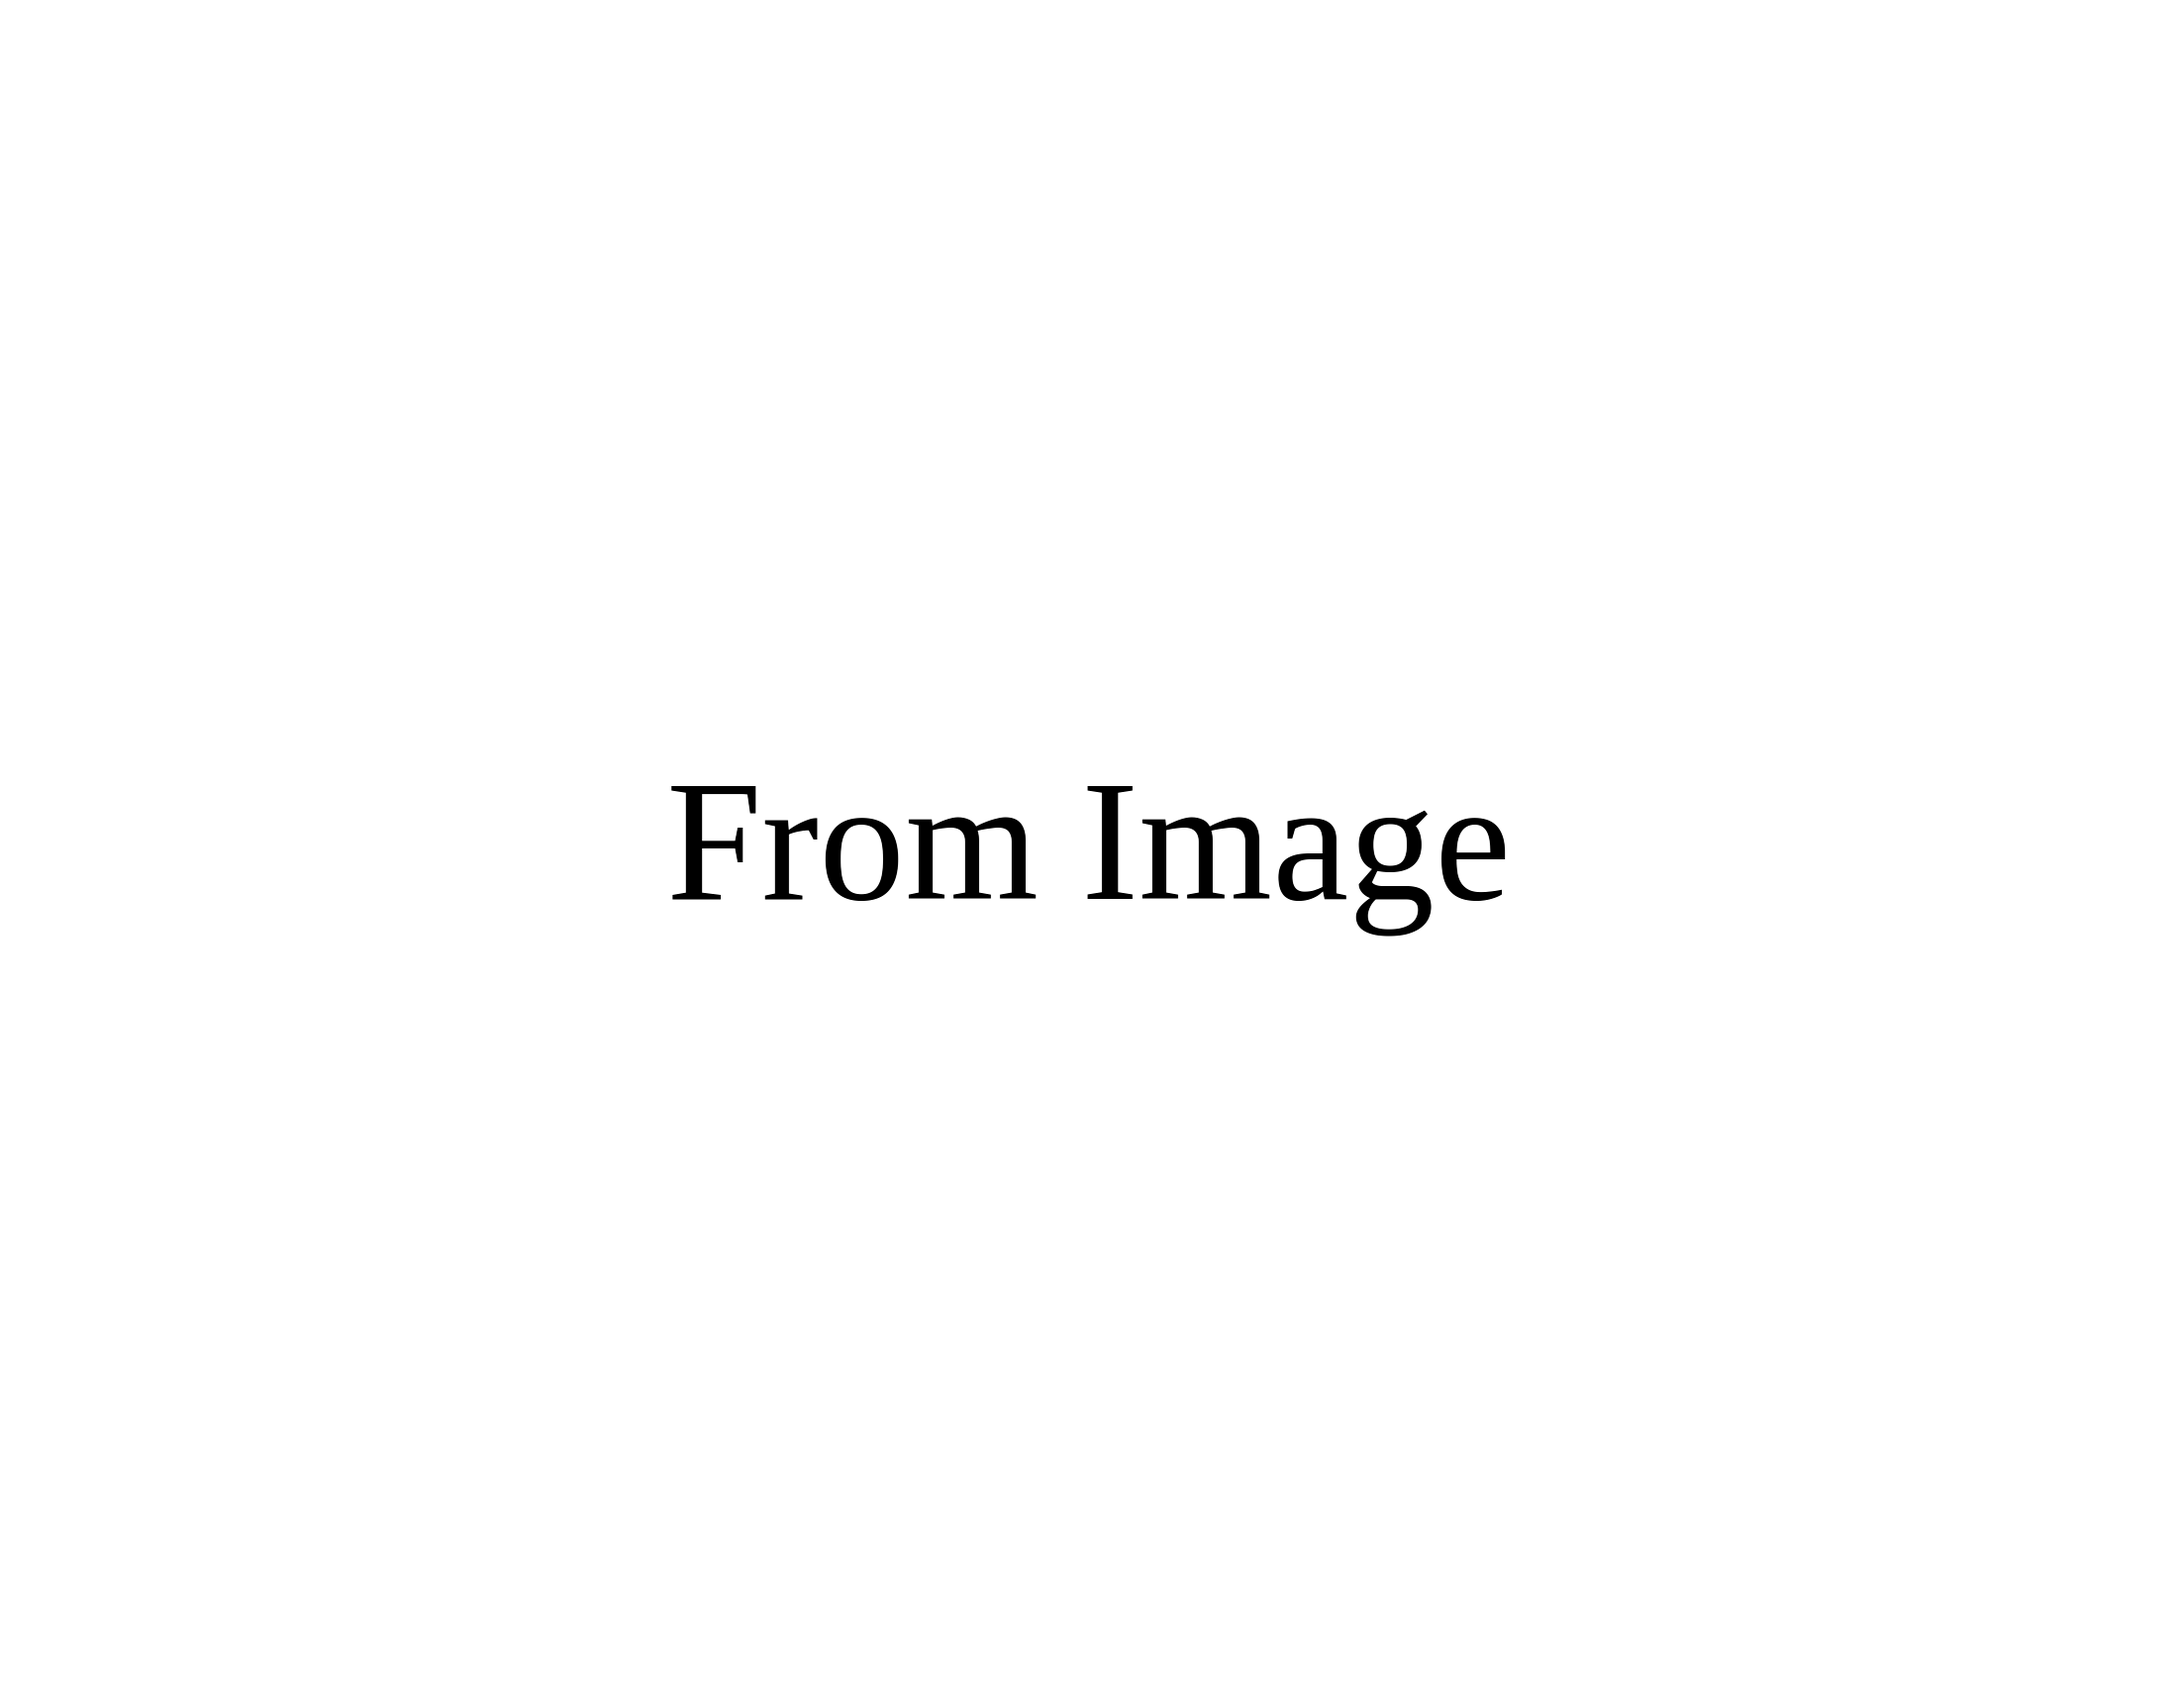
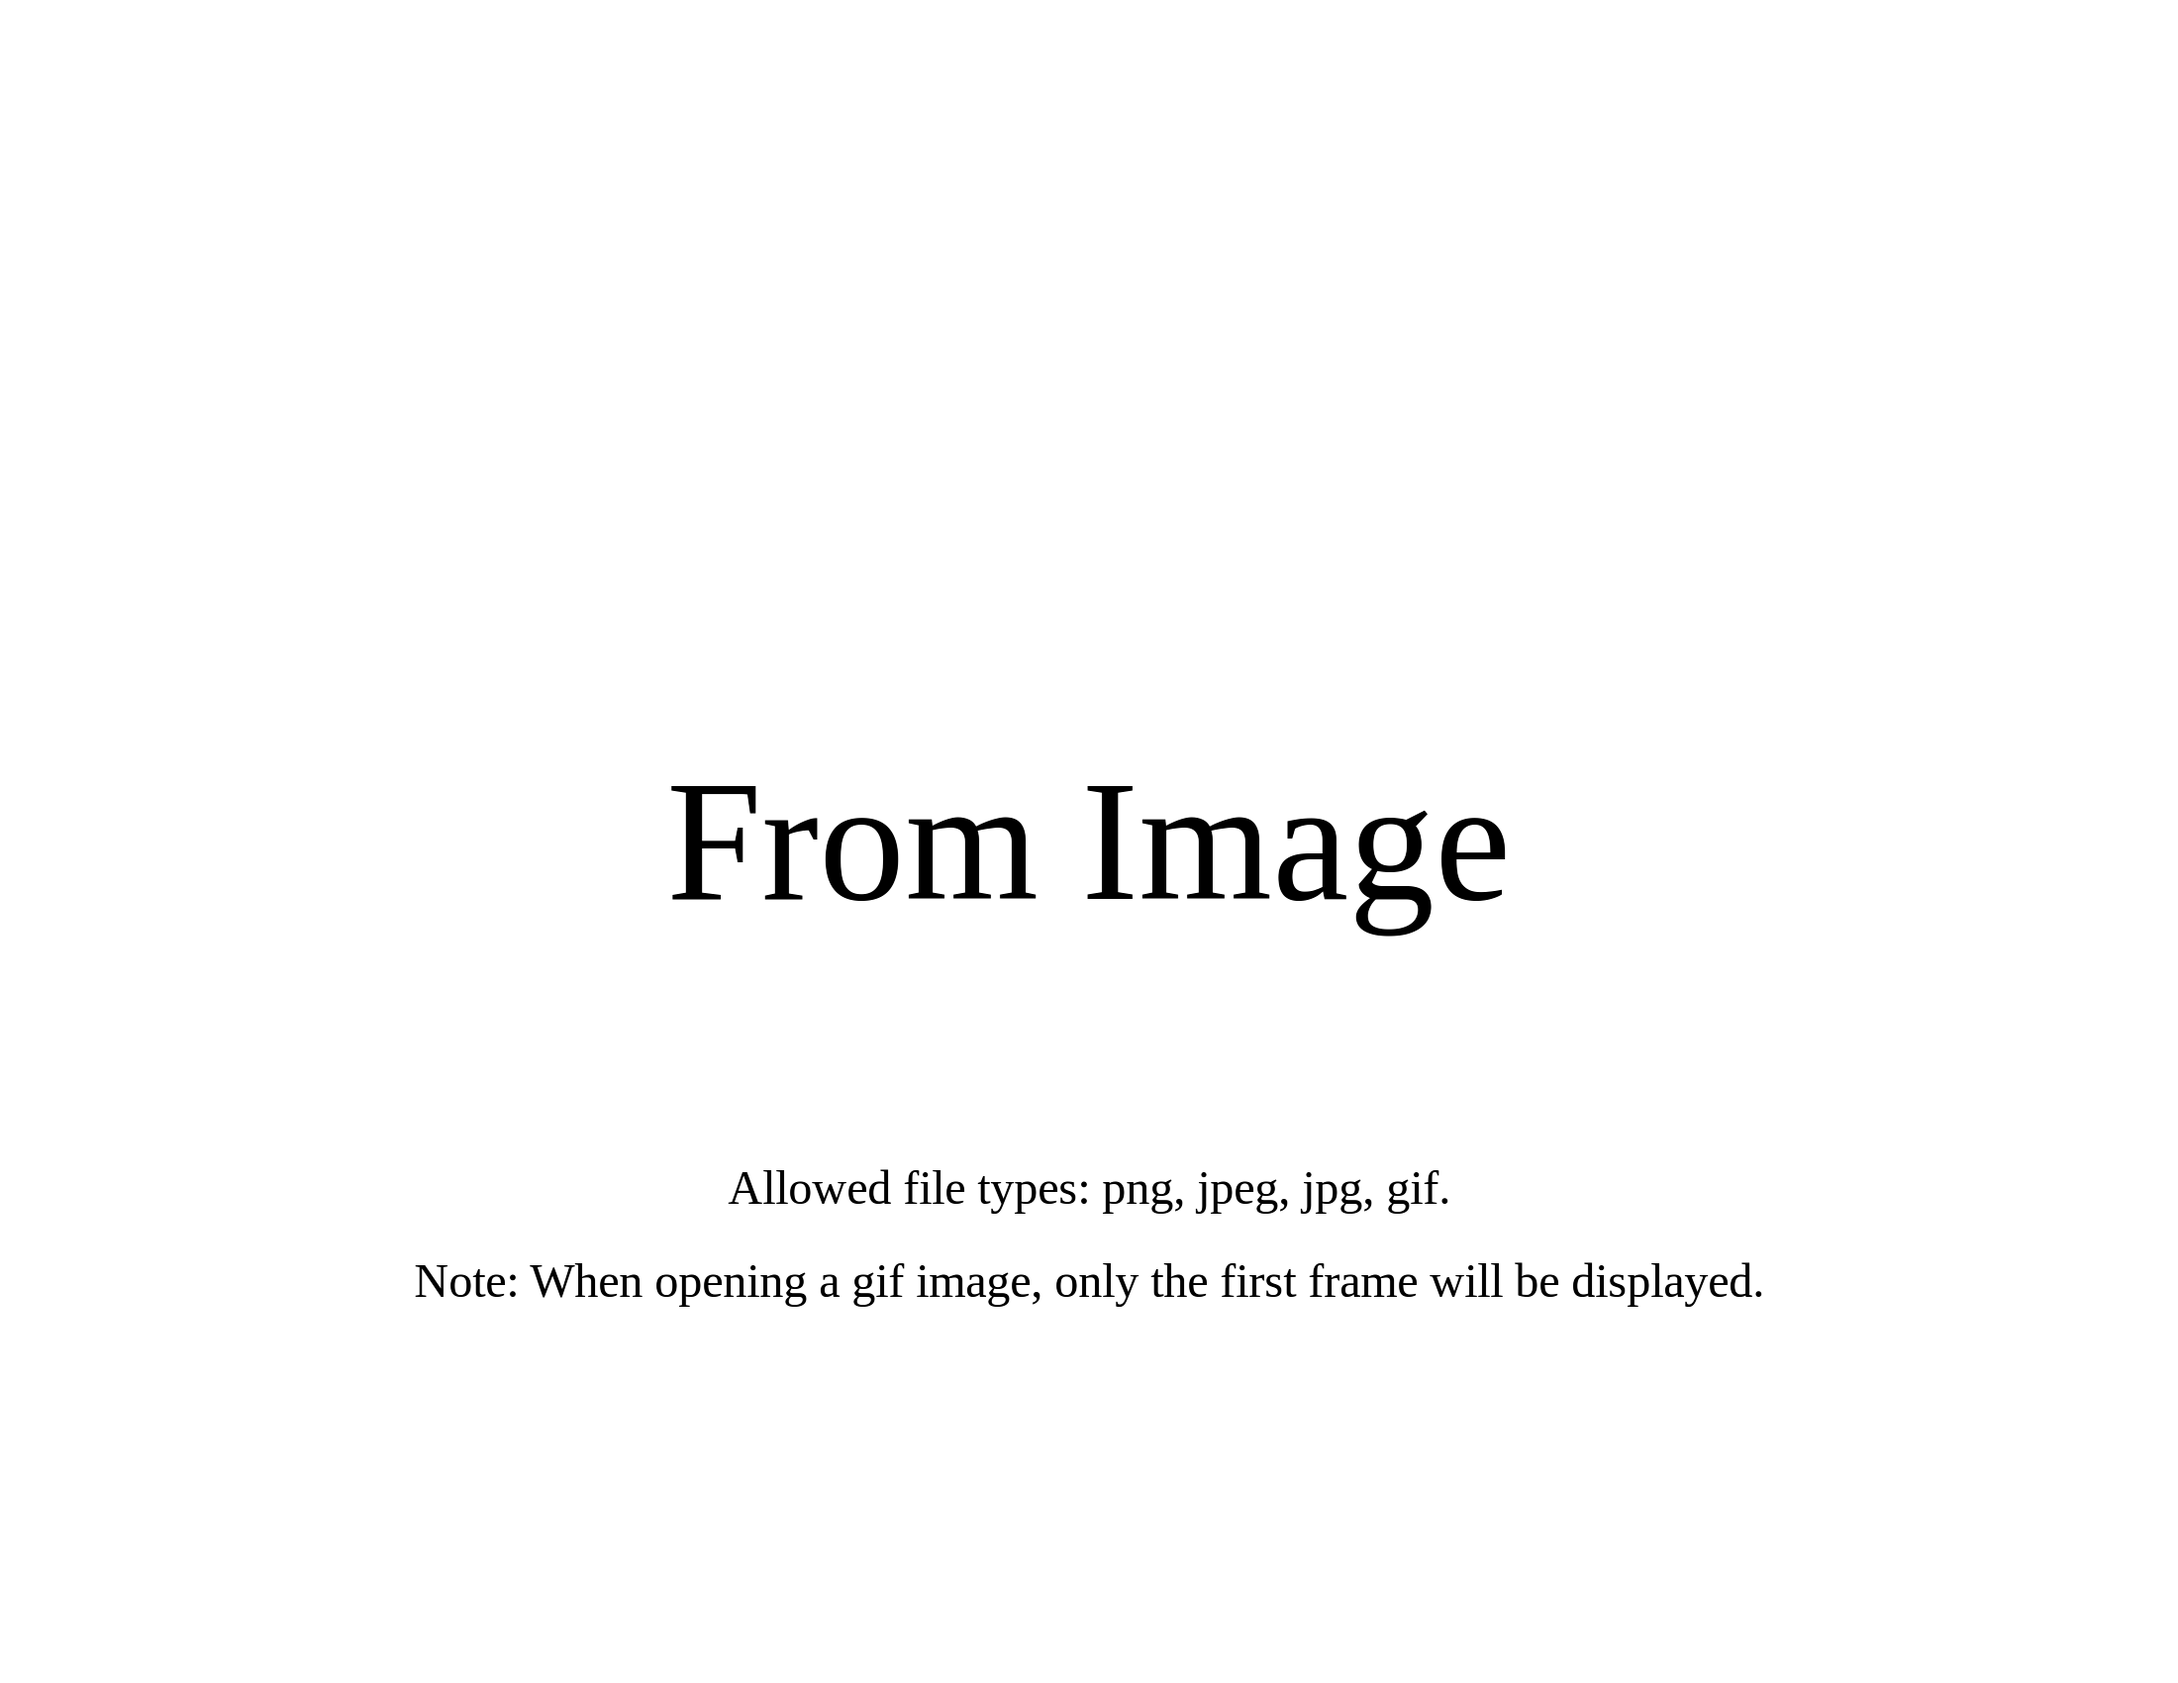
State of code at 2017-04-30 21:32:00. Imported from my life before git

Changed region(s): [[0.1855, 0.7482, 0.8036, 0.7794], [0.34, 0.6859, 0.68, 0.7171]]

diff --git a/main-window-js.js b/main-window-js.js
@@ -2171,7 +2171,7 @@ function ISDFixCanvas(){
     });
     
     document.getElementById('ISDContentHeader').innerHTML = 'Select the region you would like to insert, or click/tap OK to insert the entire screenshot.<br>You can also specify the location where the selected region is placed using the dropdown below the image.';
-    // And add the clear selection button & insertion location dropdown:
+    // And add the clear selection button, insertion location dropdown, * background color dropdown:
     
     ISDExtraBreak = document.createElement('br');
     document.getElementById("ISDContentDiv").appendChild(ISDExtraBreak);
@@ -2298,19 +2298,6 @@ function ISDGetAvaliableDialogSpace(){
   return {availableWidth: x, availableHeight: y };
 }
 
-//function ISDMousedownFunction(e){
-  //console.log(e);
-  //console.log(e.clientX + ', ' + e.clientY);
-  //var offset = getCoords(ISDCanvas);
-  //console.log(offset.left + ', ' + offset.top);
-  //var x = e.clientX - offset.left;
-  //var y = e.clientY - offset.top;
-  //console.log(x + ', ' + y);
-
-  //console.log(' ' + (e.clientX - offset.left) + ', ' + (e.clientY - offset.top));
-  //// .......
-//}
-
 function ISDInstrumentDown(x, y){
   //console.log('down ' + x + ', ' + y);
   ISDCanUseTool = true;
@@ -2403,12 +2390,6 @@ function ISDCancelSelect(){
 }
 
 function ISDOkBtnFunction(){
-  //console.log(ISDLocationDropdown.value + ' ' + ISDBackgroundColorDropdown.value);
-  // check ISDCanInsert before doing anything.
-  // then check if area selected
-  // if not, simply grab data & insert.
-  // Otherwise, grab data, paint white, paint data in correct spot, grab data & insert, all without degregating image quality.
-  // Eventually, after we get the trimmed screenshot & insert it in the appropriate place, we will close:
   if(ISDCanInsert){
     if(ISDAreaSelected){
       
@@ -2592,11 +2573,27 @@ function OPDInsertColoredPage(){
 
 function OPDInsertPageFromImage(){
   dialog.showOpenDialog(theMainWindow, { title: 'Open Image', filters: [
-   { name: 'Image', extensions: ['png', 'jpeg', 'jpg'] }
+   { name: 'Image', extensions: ['png', 'jpeg', 'jpg', 'gif'] }
     ]}, function (fileNames) {
     if (fileNames === undefined) return;
     var fileName = fileNames[0];
-    insertTemplateAsPage(fileName);
+    // Now we check to see if the file exists before loading it in.
+    
+    fs.stat(fileName, function(err, stat) {
+      if(err == null) {
+          //console.log('File exists');
+          insertTemplateAsPage(fileName);
+      } else if(err.code == 'ENOENT') {
+          // file does not exist
+          //fs.writeFile('log.txt', 'Some log\n');
+          alert('Error: That file does not seem to exist.\nTry opening a different one.', ' ');
+      } else {
+          //console.log('Some other error: ', err.code);
+          throw err;
+      }
+    });
+    
+    //insertTemplateAsPage(fileName);
     document.getElementById('OPDCloseBtn').click();  //Clicking the close btn on dialog after we are done with it.
  });
 }
